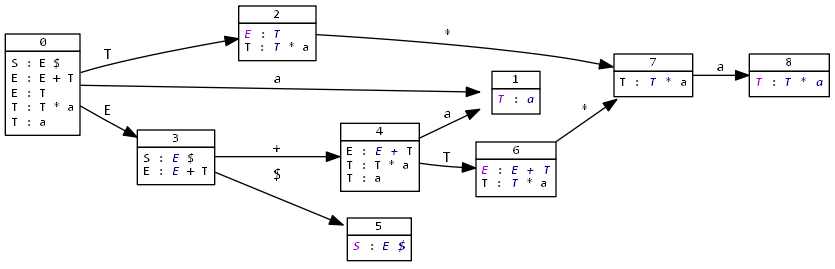
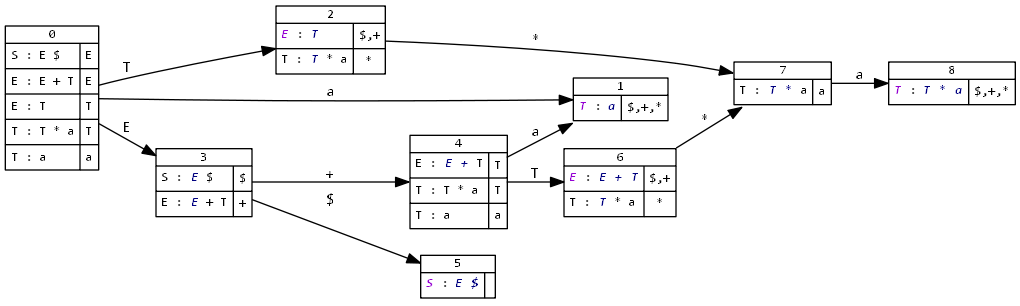
Draw lookahead terminal of each productions

Changed region(s): [[0.0, 0.0, 0.9964, 0.9814], [0.4671, 0.1487, 0.5916, 0.1784]]

diff --git a/null.c b/null.c
@@ -1674,14 +1674,18 @@ main(int argc, char ** argv) {
             " node [fontname=\"Consolas\", fontsize=10];\n"
             " edge [fontname=\"Consolas\", fontsize=11];\n");
     for (item_t i = 0; i < isadj_size; i++) {
+      size_t * row = irmat + i * prods_size;
       fprintf(dot,
               " t%u [shape=none, margin=0, label=<"
-              "<table border=\"0\" cellborder=\"1\""
-              " cellspacing=\"0\" cellpadding=\"3\">"
-              "<tr><td cellpadding=\"0\">%u</td></tr>"
-              "<tr><td balign=\"left\">", i, i);
+              "<table border=\"0\" cellborder=\"0\""
+              " cellspacing=\"0\" cellpadding=\"0\">"
+              "<tr><td colspan=\"2\" border=\"1\""
+              " cellpadding=\"0\">%u</td></tr>", i, i);
       for (size_t j = isadj[i]; j; j = isnext[j - 1]) {
         size_t term = isto[j - 1];
+        fprintf(dot,
+                "<tr><td cellpadding=\"3\" align=\"left\""
+                " border=\"1\" sides=\"lrb\">");
         if (!terms[term])
           fprintf(dot, "<font color=\"darkviolet\"><b><i>");
         fprintf(dot, "%s", toks + toks_s[sprods[pterms[term]]]);
@@ -1696,10 +1700,23 @@ main(int argc, char ** argv) {
         for (size_t k = term; terms[k]; k++)
           fprintf(dot, " %s",
                   toks + toks_s[terms[k]]);
-        if (isnext[j - 1])
-          fprintf(dot, "<br/>");
+        fprintf(dot, "</td><td cellpadding=\"3\" border=\"1\" sides=\"rb\">");
+        if (terms[term]) {
+          fprintf(dot, "%s", toks + toks_s[terms[term]]);
+        } else {
+          char * trm = irtrms + row[pterms[term]] * ts_size;
+          char prev = 0;
+          for (sym_t k = 0; k < ts_size; k++)
+            if (trm[k]) {
+              if (prev)
+                fprintf(dot, ",");
+              fprintf(dot, "%s", toks + toks_s[ts[k]]);
+              prev = 1;
+            }
+        }
+        fprintf(dot, "</td></tr>");
       }
-      fprintf(dot, "</td></tr></table>>];\n");
+      fprintf(dot, "</table>>];\n");
     }
     for (item_t i = 0; i < isadj_size; i++) {
       for (size_t j = iadj[i]; j; j = inext[j - 1]) {
